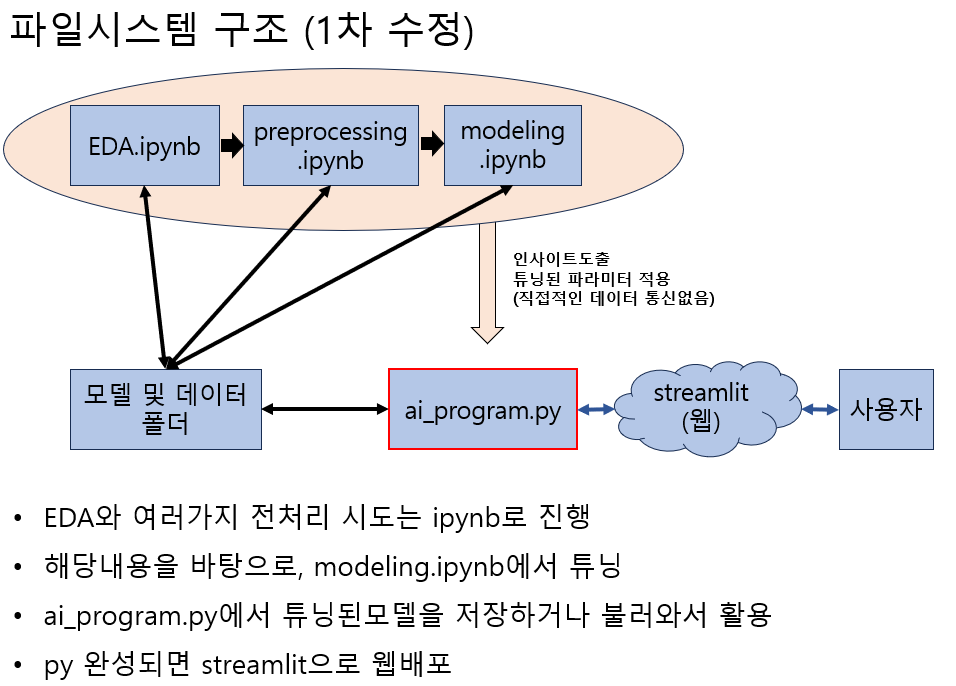
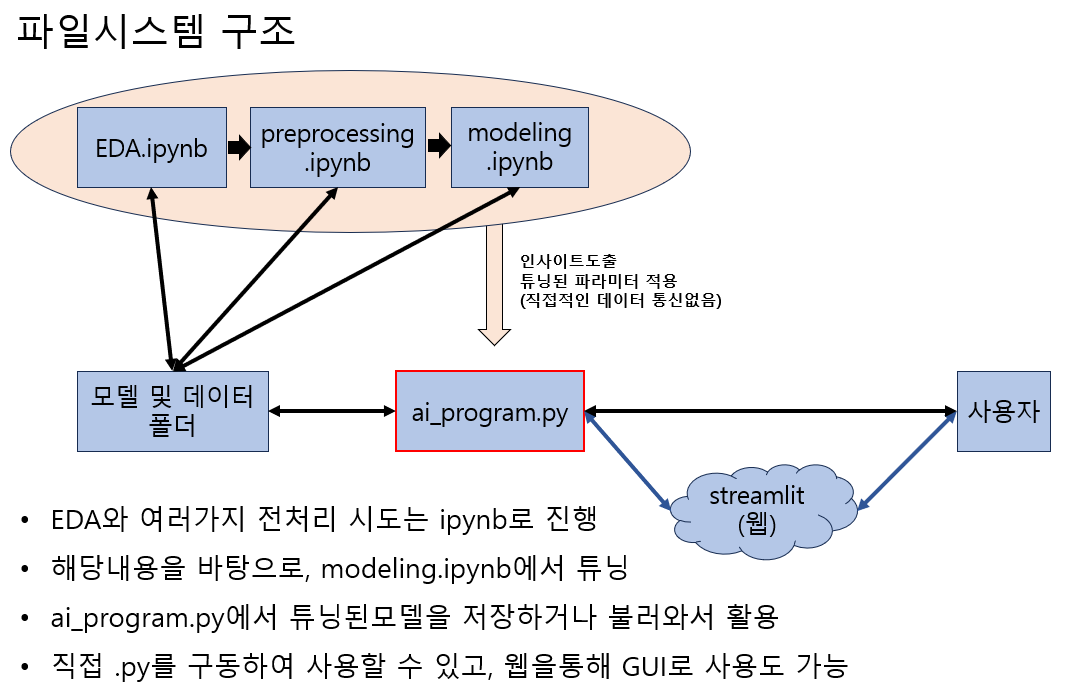
9일차 커밋2
file_system변경, readme.md변경

diff --git a/readme.md b/readme.md
@@ -1,9 +1,51 @@
 # AIB 18기 Team Project1 레포입니다.
+
 * 팀명 : 부지런한 거위
 * 팀원 : 강규욱, 박경훈, 배나연, 조윤서
 * 주제 : AI 소프트웨어 업그레이드 프로젝트
 
-### system requirements
+* 역할:
+0. 공통작업 : EDA, 전처리, 하이퍼파라미터 튜닝
+1. 강규욱 : 도메인지식 조사, ppt작성 및 편집
+2. 박경훈 : git 레포정리, ai_program.py 작성
+3. 배나연 : 도메인지식 조사, ppt작성 및 편집
+4. 조윤서 : WEP APP구현, 발표영상 편집
+
+## 프로젝트 전체 목적
+* 기존에 ipynb형태로 구성된 레거시코드를 리팩터링
+* 레거시코드의 모델성능 고도화
+
+## 세부과제 설명
+### 과제1(data1) : 전복의 크기, 무게등의 feature로 Rings예측 (회귀)
+### 과제2(data2) : 천체의 특성자료로부터 펄사를 식별 (이진분류)
+### 과제3(data3) : 27개의 features로 부터 7종류의 강판결함 분류 (다중분류)
+### 과제4 : 위의 3개 과제를 수행하는 모델을 포함하는 ai_program.py 프로그램 작성
+
+## 기존성능 vs 프로젝트 결과물 성능 요약
+### 기존 (레거시코드)
+* data1 :  rmse=2.46,  acc=0.827
+* data2 : precision=0.926, recall=0.789, f1=0.852, acc=0.976
+* data3 : acc=0.412
+### 개선 (프로젝트 결과물)
+* data1 : rmse=2.056, acc=0.862, r2=0.609
+* data2 : precision=0.912, recall=0.880, f1=0.896, acc=0.981
+* data3 : precision=0.807, recall=0.837, f1=0.819, acc=0.807
+
+## 파일시스템 설명
+* EDA.ipynb : EDA를 진행한 결과를 기록
+* preprocessing : 여러가지 전처리기법들을 적용한 결과를 기록
+* modeling.ipynb : 하이퍼파라미터튜닝을 시도한 결과를 기록
+* **ai_program.py : 실제 구동파일**
+* Regression_data.csv : 전복 Rings예측 데이터셋 (data1)
+* binary_classification_data.csv : 펄사 식별 데이터셋 (data2)
+* mulit_classification_data.csv : 강판 결함 분류 데이터셋 (data3)
+* (reg, bin, multi)_BestModel.pkl : 각 과제의 최고점수 모델
+* (reg, bin, multi)_ct.pkl : 각 데이터를 전처리해주는 전처리기
+* (reg, bin, multi)_study.pkl : optuna의 튜닝히스토리가 담겨있는 파일
+
+
+## requirements
+### .ipynb requirements
 * python = 3.11.3
 * numpy = 1.24.3
 * pandas = 1.5.3
